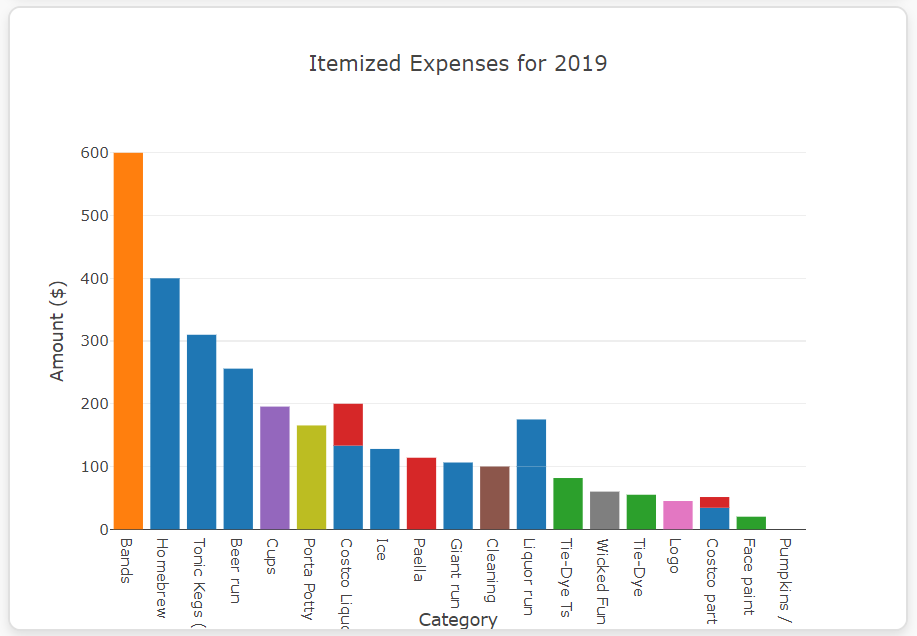
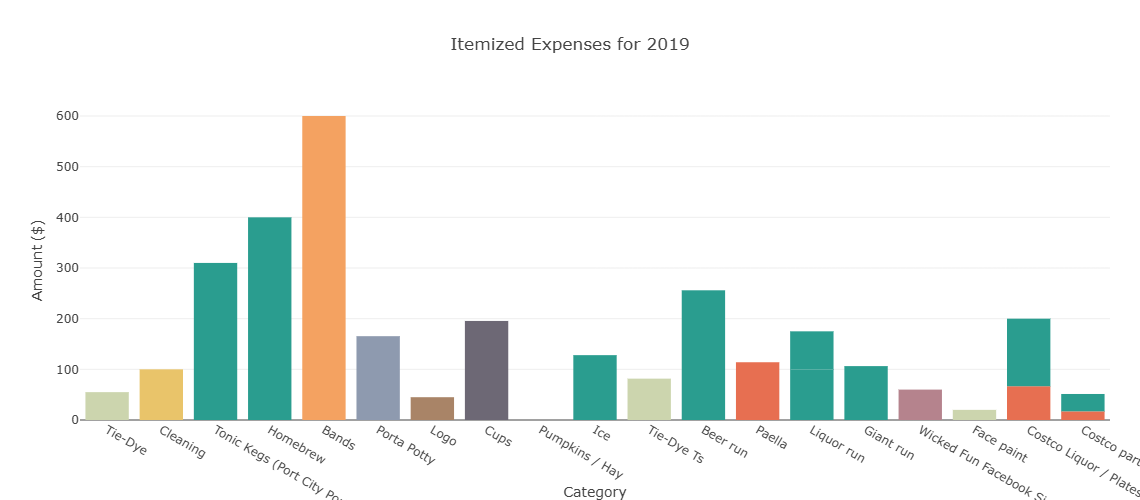
feat(harvest-party): add new photo, update gallery photos with new plot color scheme

Changed region(s): [[0.0, 0.21, 1.0, 1.0], [0.3359, 0.06, 0.6718, 0.12]]

diff --git a/templates/harvest-party.html b/templates/harvest-party.html
@@ -225,6 +225,11 @@
               understand the event’s financial health and identify opportunities
               to improve impact and efficiency.
             </p>
+            <p>
+              By combining technical tools and visual storytelling, this project
+              highlights my ability to not only analyze data but also present it
+              in ways that engage both technical and non-technical audiences.
+            </p>
             <!-- begin tableau css div to center on mobile, at very end of styles.css -->
             <div id="tableau-viz">
               <!-- begin tableau mobile embed code -->
@@ -290,11 +295,6 @@
                 >desktop version here</a
               >
             </span>
-            <p>
-              By combining technical tools and visual storytelling, this project
-              highlights my ability to not only analyze data but also present it
-              in ways that engage both technical and non-technical audiences.
-            </p>
             <!-- Divider-->
             <hr class="my-4" />
             <h2 class="section-heading">Gallery</h2>
@@ -302,36 +302,14 @@
             <br /><br />
             <img
               class="img-fluid mx-auto d-block"
-              src="../assets/img/harvest-party/hp_tableau.png"
-              alt="Tableau Dashboard of Net Annual Gain or Loss"
+              src="../assets/img/harvest-party/pumpkin_pie_plot.png"
+              alt="Harvest Party Web Pie Chart of Categorized Expenses Overlaid on Pumpkin Pie"
+              style="border-radius: 10px"
             />
             <span class="caption text-muted"
-              >Tableau dashboard: Visualizing expenses, donations, and net
-              annual gain or loss. Early years show net losses—especially in
-              2021, post-COVID—followed by a return to positive net
-              donations.</span
-            >
-            <br /><br />
-            <img
-              class="img-fluid mx-auto d-block"
-              src="../assets/img/harvest-party/hp_tableau_alt_2.png"
-              alt="Tableau Dashboard of Attendees and Cost per Person"
-            />
-            <span class="caption text-muted"
-              >Tableau dashboard: Facebook RSVPs and cost per person. Facebook’s
-              declining relevance contributes to the apparent drop in attendance
-              post-COVID. This metric is failing, yet it still doesn’t explain
-              the tripling of expenses per attendee.</span
-            >
-            <br /><br />
-            <img
-              class="img-fluid mx-auto d-block"
-              src="../assets/img/harvest-party/hp_tableau_alt.png"
-              alt="Tableau Dashboard of Annual Expenses"
-            />
-            <span class="caption text-muted"
-              >Tableau dashboard: Annual expenses by year, with bar charts
-              highlighting steadily rising costs.</span
+              >Web pie chart: Categorized expenses overlaid on a pumpkin
+              pie—festive and thematic, serving up a visual slice of party
+              spending.</span
             >
             <br /><br />
             <img
@@ -366,6 +344,40 @@
               >Web Sunburst Plot: Colorful. Visually striking. Unwieldy and
               consequently uninformative, but pretty. Made because I'll never
               get the chance to make one ever again.</span
+            >
+            <br /><br />
+            <img
+              class="img-fluid mx-auto d-block"
+              src="../assets/img/harvest-party/hp_tableau.png"
+              alt="Tableau Dashboard of Net Annual Gain or Loss"
+            />
+            <span class="caption text-muted"
+              >Tableau dashboard: Visualizing expenses, donations, and net
+              annual gain or loss. Early years show net losses—especially in
+              2021, post-COVID—followed by a return to positive net
+              donations.</span
+            >
+            <br /><br />
+            <img
+              class="img-fluid mx-auto d-block"
+              src="../assets/img/harvest-party/hp_tableau_alt_2.png"
+              alt="Tableau Dashboard of Attendees and Cost per Person"
+            />
+            <span class="caption text-muted"
+              >Tableau dashboard: Facebook RSVPs and cost per person. Facebook’s
+              declining relevance contributes to the apparent drop in attendance
+              post-COVID. This metric is failing, yet it still doesn’t explain
+              the tripling of expenses per attendee.</span
+            >
+            <br /><br />
+            <img
+              class="img-fluid mx-auto d-block"
+              src="../assets/img/harvest-party/hp_tableau_alt.png"
+              alt="Tableau Dashboard of Annual Expenses"
+            />
+            <span class="caption text-muted"
+              >Tableau dashboard: Annual expenses by year, with bar charts
+              highlighting steadily rising costs.</span
             >
             <br /><br />
             <img
